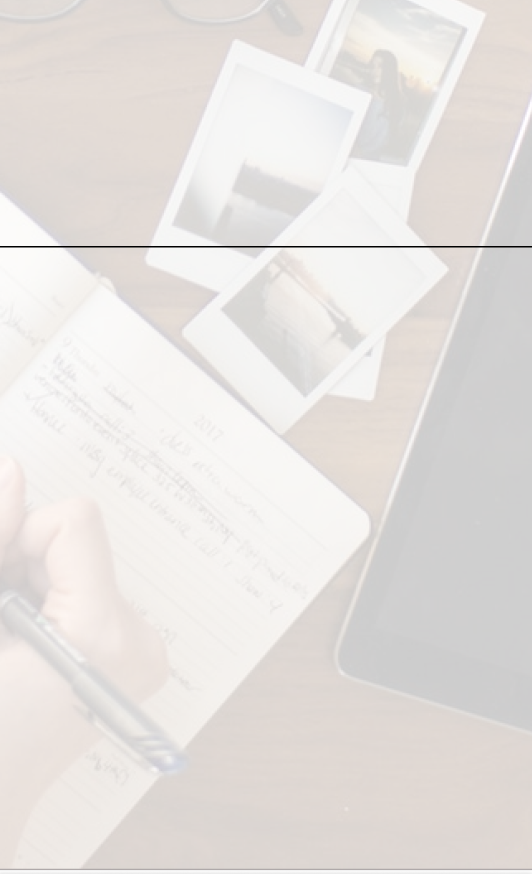
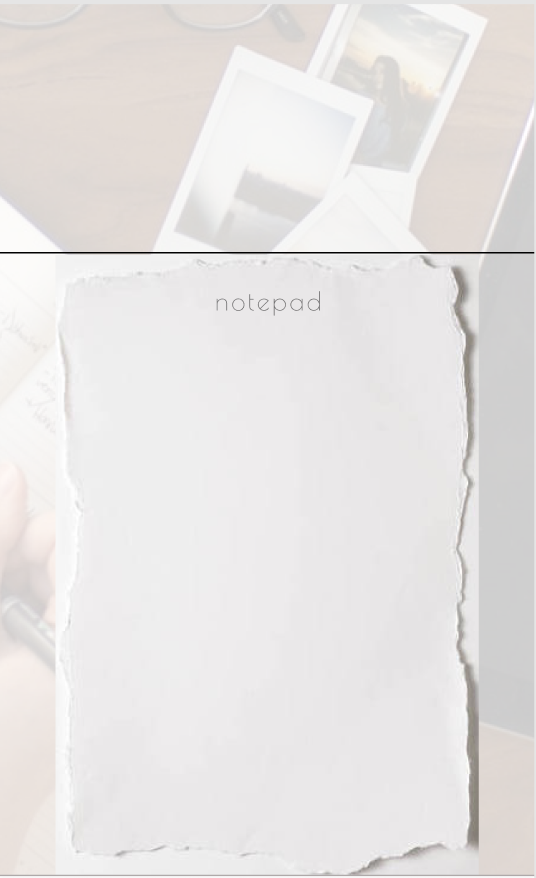
added capability to write notes

diff --git a/enLIGHTen/screens/NotepadScreen.js b/enLIGHTen/screens/NotepadScreen.js
@@ -12,7 +12,8 @@ import {
   View,
   Button,
   Alert,
-  ImageBackground
+  ImageBackground,
+  TextInput
 } from "react-native";
 var HashMap = require('hashmap');
 
@@ -36,7 +37,7 @@ export default class NotepadScreen extends React.Component {
     map.set("surprise", statics.surprise);
     var questions = map.get(category);
     var nextQuestion = questions[Math.floor(Math.random()*questions.length)];
-    this.state = { question: nextQuestion, category: category, map: map };
+    this.state = { question: nextQuestion, category: category, map: map, text: "hello!" };
   }
 
 
@@ -53,21 +54,22 @@ export default class NotepadScreen extends React.Component {
     return (
       <View style={styles.container}>
         <View style={styles.welcomeContainer}>
-          <ImageBackground style={{height: 800, width: 430, position: "absolute"}}
+          <ImageBackground style={{height: 750, width: 430, position: "absolute"}}
             source={
               require("../assets/notepadBackdrop.png")
             }
           />
           <View style={styles.questionsContainer}><Text style={styles.text}>{this.state.question}</Text></View>
-          <TouchableOpacity style={styles.welcomeContainer} onPress={() => {
-
-            }}>
-            <Image style={{height: 400, width: 300, marginTop: 180, marginLeft: 50}}
-              source={
-                require("../assets/notepad.png")
-              }
-            />
-            </TouchableOpacity>
+          <View>
+          <TextInput 
+          style={{height: 600, width: 300, borderWidth: 0, marginTop: 75, marginLeft: 50}} 
+          onChangeText={(text) => this.setState({text})}
+          value={this.state.text}
+         multiline = {true}
+         numberOfLines = {10}
+         editable={true}>
+            </TextInput>
+         </View>
           <TouchableOpacity style={styles.nextContainer} onPress={this._nextQuestion}>
             <Image style={styles.nextImageStyle}
               source={
@@ -80,6 +82,7 @@ export default class NotepadScreen extends React.Component {
     );
   }
 }
+
 
 
 const styles = StyleSheet.create({
@@ -97,12 +100,13 @@ const styles = StyleSheet.create({
   questionsContainer: {
     display: "flex",
     width: 200,
+    height: 210,
     flexWrap: "wrap",
     width: "100%",
     justifyContent: "center",
     alignItems: "center",
     paddingLeft: 10,
-    paddingRight: 10
+    paddingRight: 10,
   },
   text: {
     fontSize: 30
